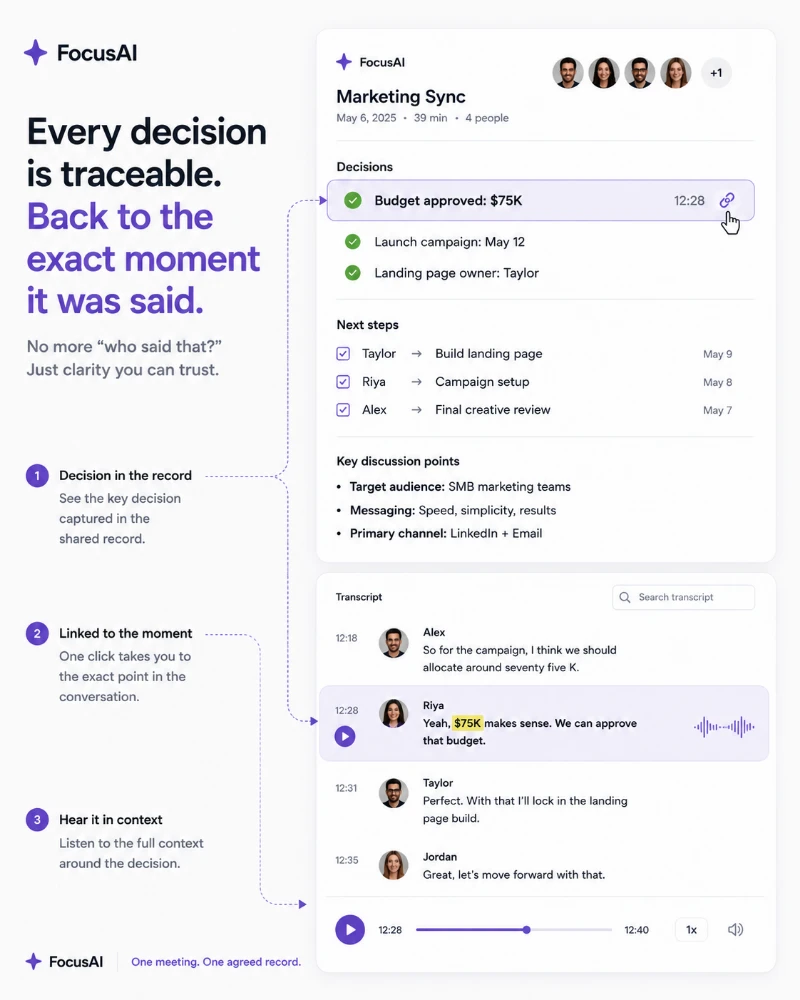
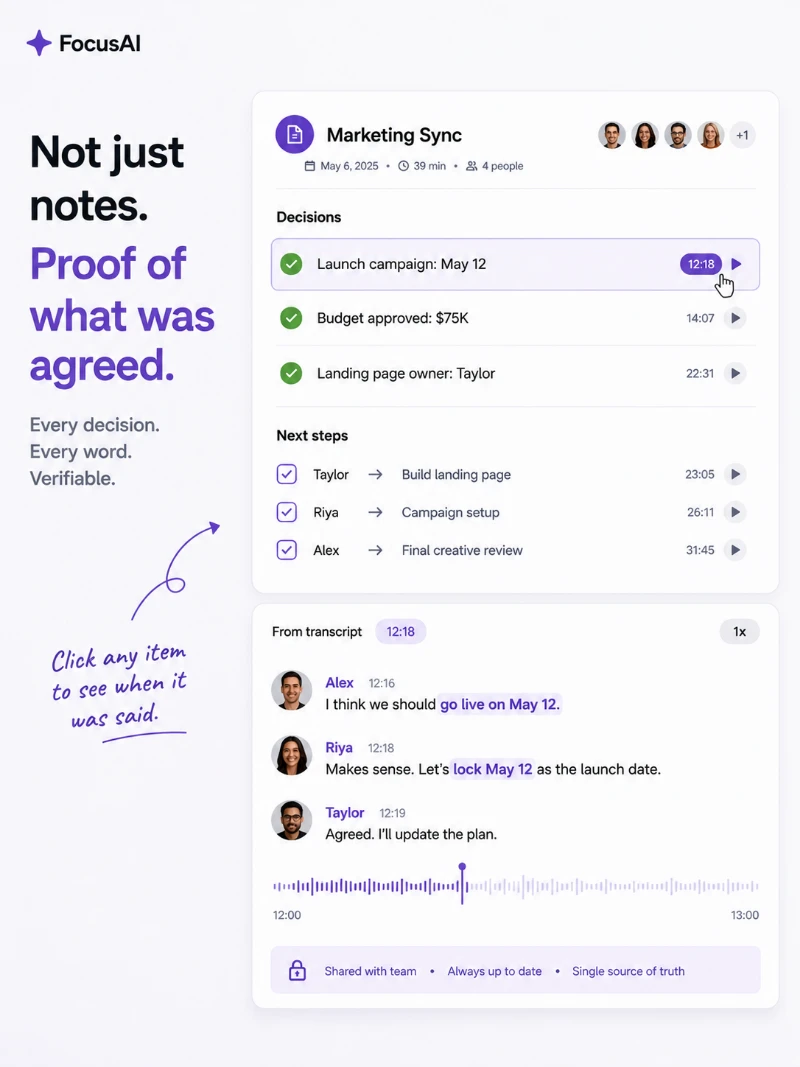
Replace Project 02 artwork and align copy to it
Richer set, consistent FocusAI branding throughout, and the comparison
still runs against a generic category message rather than a named one.

The creative says "notes" where the project copy said "record", so the
concept name, setup, bet, captions and alt text now use "notes". Leaving
the mismatch would have repeated the inconsistency this project was fixed
for once already.

Four slots came back at different ratios than briefed, so their captions
now read 1:1 and 3:4 to match the files.

diff --git a/index.html b/index.html
@@ -442,12 +442,12 @@
     <div class="wproj-head">
       <div>
         <span class="wproj-idx">Project 02</span>
-        <h3 class="wproj-title">Everyone leaves with the same record.<span class="wproj-cat">Prosumer AI assistant</span></h3>
+        <h3 class="wproj-title">Everyone leaves with the same notes.<span class="wproj-cat">Prosumer AI assistant</span></h3>
       </div>
       <dl class="wproj-meta">
         <div>
           <dt>The setup</dt>
-          <dd>A subscription assistant that turns a meeting into one shared written record. The category sells the technology: AI-powered, automatic, real-time.</dd>
+          <dd>A subscription assistant that turns a meeting into one shared set of notes. The category sells the technology: AI-powered, automatic, real-time.</dd>
         </div>
         <div>
           <dt>What we noticed</dt>
@@ -455,43 +455,43 @@
         </div>
         <div class="is-key">
           <dt>The bet</dt>
-          <dd>We would test whether showing the artefact itself, the shared record and the mechanism that produces it, sells harder than describing the capability behind it.</dd>
+          <dd>We would test whether showing the artefact itself, the shared notes and the mechanism that produces them, sells harder than describing the capability behind it.</dd>
         </div>
       </dl>
     </div>
     <div class="wproj-grid">
       <figure class="work-figure">
-        <div class="work-frame" data-ratio="4:5"><img src="assets/img/work-ai-01-4x5.webp" alt="Concept advertisement showing the shared written meeting record at full size as the only element." width="800" height="1000" loading="lazy" decoding="async"></div>
-        <figcaption class="work-cap">
-          <span class="wc-kicker">Static · 4:5</span>
-          <span class="wc-sub">The artefact alone. The record at full size, nothing else on the frame.</span>
-        </figcaption>
-      </figure>
-      <figure class="work-figure">
-        <div class="work-frame" data-ratio="1:1"><img src="assets/img/work-ai-02-1x1.webp" alt="Concept advertisement contrasting four differing recollections of a meeting with a single shared record." width="800" height="800" loading="lazy" decoding="async"></div>
+        <div class="work-frame" data-ratio="1:1"><img src="assets/img/work-ai-01-4x5.webp" alt="Concept advertisement showing the shared set of meeting notes at full size beneath the headline." width="800" height="800" loading="lazy" decoding="async"></div>
         <figcaption class="work-cap">
           <span class="wc-kicker">Static · 1:1</span>
-          <span class="wc-sub">Four versions of the same meeting, against the one record.</span>
+          <span class="wc-sub">The artefact as the hero. The shared notes, at full size.</span>
         </figcaption>
       </figure>
       <figure class="work-figure">
-        <div class="work-frame" data-ratio="9:16"><img src="assets/img/work-ai-03-9x16.webp" alt="Opening frame of a concept video advertisement timing the moment a meeting ends to the record appearing." width="720" height="1279" loading="lazy" decoding="async"></div>
+        <div class="work-frame" data-ratio="1:1"><img src="assets/img/work-ai-02-1x1.webp" alt="Concept advertisement contrasting four differing handwritten recollections of a meeting with one shared set of notes." width="800" height="800" loading="lazy" decoding="async"></div>
         <figcaption class="work-cap">
-          <span class="wc-kicker">Motion · 9:16</span>
-          <span class="wc-sub">Meeting ends, record appears. The whole claim inside five seconds.</span>
+          <span class="wc-kicker">Static · 1:1</span>
+          <span class="wc-sub">Four versions of the same meeting, against the one set of notes.</span>
         </figcaption>
       </figure>
       <figure class="work-figure">
-        <div class="work-frame" data-ratio="9:16"><img src="assets/img/work-ai-04-9x16.webp" alt="Concept product demonstration showing the mechanism by which spoken discussion becomes a written record." width="720" height="1279" loading="lazy" decoding="async"></div>
+        <div class="work-frame" data-ratio="3:4"><img src="assets/img/work-ai-03-9x16.webp" alt="Opening frame of a concept video advertisement timing the moment a meeting ends to the notes appearing." width="800" height="1067" loading="lazy" decoding="async"></div>
         <figcaption class="work-cap">
-          <span class="wc-kicker">Product · 9:16</span>
-          <span class="wc-sub">How the record gets made, shown rather than described.</span>
+          <span class="wc-kicker">Motion · 3:4</span>
+          <span class="wc-sub">Meeting ends, notes appear. The whole claim inside five seconds.</span>
         </figcaption>
       </figure>
       <figure class="work-figure">
-        <div class="work-frame" data-ratio="4:5"><img src="assets/img/work-ai-05-4x5.webp" alt="Concept product execution tracing one decision in the record back to the moment it was spoken." width="800" height="1000" loading="lazy" decoding="async"></div>
+        <div class="work-frame" data-ratio="3:4"><img src="assets/img/work-ai-04-9x16.webp" alt="Concept product demonstration showing the mechanism by which spoken discussion becomes written notes." width="800" height="1067" loading="lazy" decoding="async"></div>
         <figcaption class="work-cap">
-          <span class="wc-kicker">Product · 4:5</span>
+          <span class="wc-kicker">Product · 3:4</span>
+          <span class="wc-sub">How the notes get made, shown rather than described.</span>
+        </figcaption>
+      </figure>
+      <figure class="work-figure">
+        <div class="work-frame" data-ratio="3:4"><img src="assets/img/work-ai-05-4x5.webp" alt="Concept product execution tracing one decision in the notes back to the moment it was spoken." width="800" height="1067" loading="lazy" decoding="async"></div>
+        <figcaption class="work-cap">
+          <span class="wc-kicker">Product · 3:4</span>
           <span class="wc-sub">One decision, traced back to the moment it was said. Checkable, not asserted.</span>
         </figcaption>
       </figure>
@@ -510,7 +510,7 @@
       </div>
       <div class="wf-item">
         <span class="wf-label">What varies</span>
-        <p>The proof type. The artefact on its own, the mechanism that produces it, a side-by-side of four recollections against one record, and a timed demonstration. The claim is held constant while the evidence for it changes.</p>
+        <p>The proof type. The artefact on its own, the mechanism that produces it, a side-by-side of four recollections against one set of notes, and a timed demonstration. The claim is held constant while the evidence for it changes.</p>
       </div>
       <div class="wf-item">
         <span class="wf-label">What we would learn next</span>
